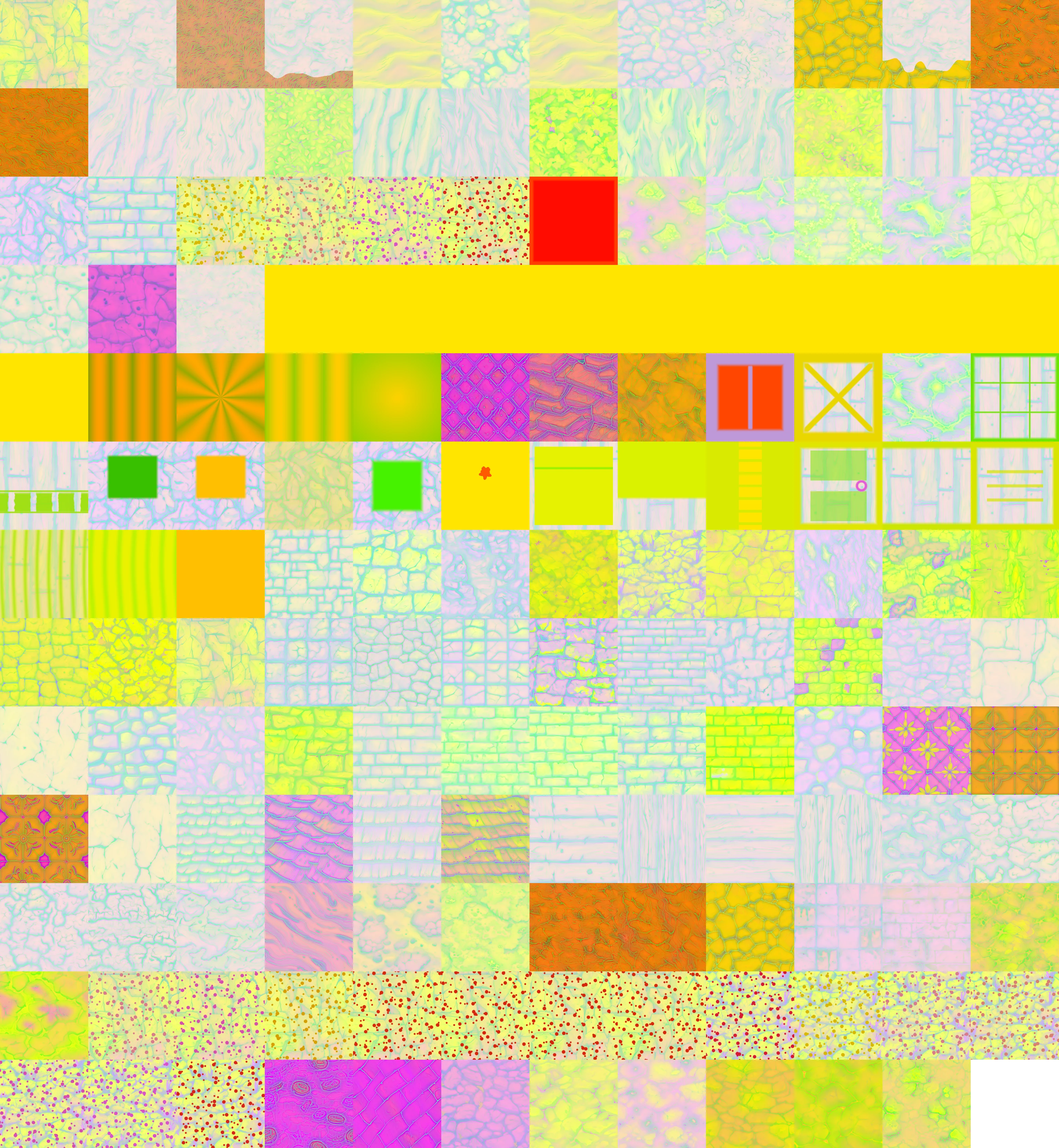
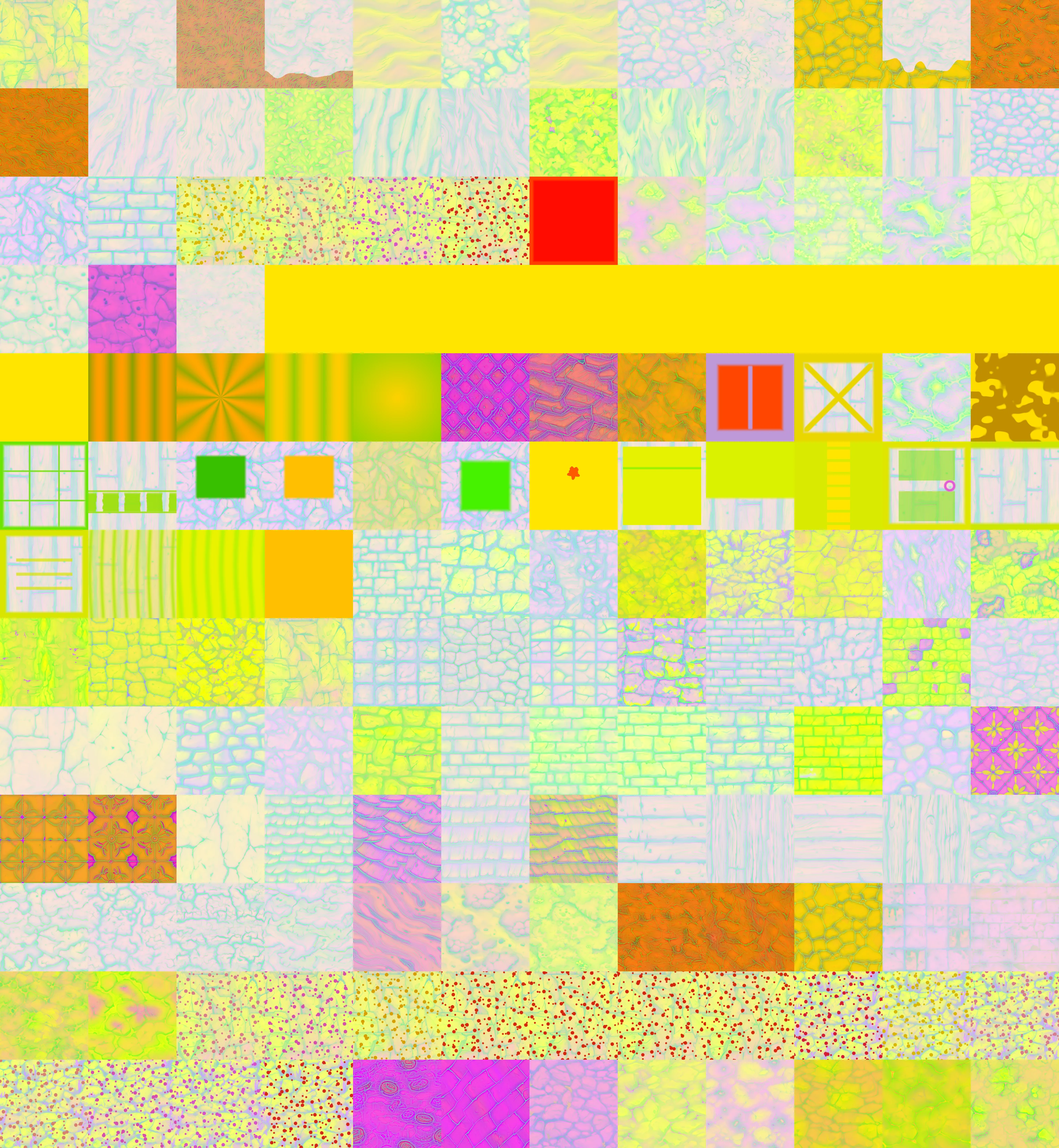
Give the bottom of the planet a reason to be there
The deepest place in the world had nothing in it. Thirty layers of basalt,
obsidian and the odd pocket of lava, and what was waiting was a block you
cannot break and no acknowledgement that you had arrived. Meanwhile the top
tier of tools comes from husks, so depth bought better ore and no destination
-- and with worldgen structures gone there was nothing to find anywhere.

Reaching the core now gives you a hearth: the only one on the planet, not
craftable, and offered once. Placed, it holds off spawning for forty-six units
around it -- enough to make a base genuinely safe rather than mostly safe. It
refuses spawns only; anything already hunting you follows you home, so it is a
quiet place rather than a wall.

Measured with its control, same night, same arena: three husks without the
hearth, none at all with it over thirty seconds. The detection fires next to
the core and not at the surface, and the ward list is rebuilt from the world
every edit so a hearth that is mined out stops warding.

Claude-Session: https://claude.ai/code/session_01Wq591YL54sriTGxyB2SF1D

diff --git a/src/main.js b/src/main.js
@@ -141,6 +141,18 @@ const HAND_LIGHT_GAIN = 2.1;
  */
 const NEW_WORLD_GRACE = 180;
 
+/**
+ * How deep counts as having reached the core, and how far a placed hearth
+ * keeps the dark away.
+ *
+ * The ward is generous on purpose: it is the reward for the longest journey in
+ * the game, and a base that is *actually* safe is worth more than one that is
+ * mostly safe. It only holds off spawning — anything already hunting you will
+ * still follow you home.
+ */
+const CORE_REACH_K = 5;
+const HEARTH_WARD = 46;
+
 /** (di, dj) toward the wall a torch of each facing is bracketed to. */
 const TORCH_WALL_STEP = [[1, 0], [-1, 0], [0, 1], [0, -1]];
 
@@ -207,6 +219,10 @@ class Game {
      * house on the first warm day. Only what winter froze is winter's to melt.
      */
     this.frozen = new Set();
+    /** Placed hearths, keyed like the rest. See _refreshWards. */
+    this.hearths = new Set();
+    /** Has the planet already given up its one hearth? */
+    this.coreFound = false;
     /** Burning cells near the player, refilled by the hand-light scan. */
     this._flameCells = [];
     this.seed = 0;
@@ -503,6 +519,9 @@ class Game {
     this.deathSite = null;
     this.signs.clear();
     this.frozen.clear();
+    this.hearths.clear();
+    this.coreFound = false;
+    this.mobs.wards = null;
     this.seasons.fromJSON(0);
     this._pushSeason();
     this.inventory = new Inventory();
@@ -688,6 +707,9 @@ class Game {
         : null;
       this.signs = new Map(save.signs || []);
       this.frozen = new Set(save.frozen || []);
+      this.hearths = new Set(save.hearths || []);
+      this.coreFound = !!save.coreFound;
+      this._refreshWards();
       this._pendingSave = null;
     } else {
       this._spawnPlayer();
@@ -904,6 +926,8 @@ class Game {
       home: this.homeSpawn ? [this.homeSpawn.col, this.homeSpawn.k] : null,
       signs: [...this.signs],
       frozen: [...this.frozen],
+      hearths: [...this.hearths],
+      coreFound: this.coreFound,
       playtime: this.playtime,
       dayT: +this.dayT.toFixed(5),
       season: this.seasons.toJSON(),
@@ -935,8 +959,11 @@ class Game {
       // (the kiln ⇄ lit-kiln swap) inherits whatever the cell already had.
       const fac = this.planet.applyFacing(e.col, e.k, e.id, e.facing);
       if (fac >= 0) e.facing = fac; else delete e.facing;
+      if (e.id === ID.hearth) this.hearths.add(e.col * D + e.k);
     }
     this.worldWorker.postMessage({ type: 'edit', edits, id: ++this.editSeq });
+    // Cheap, and only does anything at all once a hearth exists.
+    if (this.hearths.size) this._refreshWards();
   }
 
   /**
@@ -1545,6 +1572,7 @@ class Game {
     this._safeTick('freeze', () => this._tickFreeze(dt));
     this._safeTick('vitals', () => this._tickVitals(dt));
     this._safeTick('grace', () => this._tickGrace(dt));
+    this._safeTick('core', () => this._tickCore(dt));
     this._safeTick('mobs', () => this.mobs.update(dt, this.player, this.sky));
     // A merchant that has walked out of range, run out of life or been killed
     // takes its shop with it. Without this the screen stays up over a stock
@@ -1715,6 +1743,61 @@ class Game {
    * season frozen at whatever it was when the world loaded, which is the same
    * bug as counting only waking hours, just with a different cause.
    */
+  /**
+   * The bottom of the planet, the first time you get there.
+   *
+   * Thirty layers down through basalt, obsidian and the odd pocket of lava, and
+   * what was waiting was a block you cannot break and no acknowledgement that
+   * you had arrived. The planet gives you a hearth instead: the only one there
+   * will ever be, and the reason to have dug.
+   */
+  _tickCore(dt) {
+    if (this.coreFound) return;
+    this._coreT = (this._coreT ?? 0) - dt;
+    if (this._coreT > 0) return;
+    this._coreT = 0.4;
+    const c = this.player.cell;
+    if (c.ck > CORE_REACH_K) return;
+    // Actually next to it, not merely deep — the core tops out at layer 2 and
+    // the last few layers of basalt are not the same achievement.
+    const col = cidx(c.f, Math.min(F - 1, Math.floor(c.ci)), Math.min(F - 1, Math.floor(c.cj)));
+    let touching = false;
+    for (let di = -1; di <= 1 && !touching; di++) {
+      for (let dj = -1; dj <= 1 && !touching; dj++) {
+        const cc = stepColumn(col, di, dj);
+        for (let k = Math.max(0, Math.floor(c.ck) - 2); k <= Math.floor(c.ck) + 1; k++) {
+          if (this.planet.at(cc, k) === ID.core) { touching = true; break; }
+        }
+      }
+    }
+    if (!touching) return;
+    this.coreFound = true;
+    this.inventory.add(itemIdOf('hearth'), 1);
+    this.ui.toast('The core is warm to the touch.', itemIdOf('hearth'), 5000);
+    setTimeout(() => this.ui.toast('It gives you a hearth. Nothing that walks at night will come near it.',
+      itemIdOf('hearth'), 6000), 5200);
+    this.audio.ui(880);
+  }
+
+  /**
+   * Where the hearths are, for the spawner to keep away from.
+   *
+   * The set is maintained by edits, and every entry is checked against the
+   * world before it is used — a cell can stop being a hearth by being mined,
+   * burned or built over, and a ward that outlives its hearth would switch the
+   * night off around an empty patch of ground for the rest of the game.
+   */
+  _refreshWards() {
+    const out = [];
+    for (const key of [...this.hearths]) {
+      const k = key % D, col = (key - k) / D;
+      if (this.planet.at(col, k) !== ID.hearth) { this.hearths.delete(key); continue; }
+      out.push(this.planet.centerOf(col, k, new THREE.Vector3()));
+    }
+    this.mobs.wards = out;
+    this.mobs.wardRadius = HEARTH_WARD;
+  }
+
   _tickGrace(dt) {
     if (!(this.graceT > 0)) return;
     this.graceT -= dt;

diff --git a/src/game/Mobs.js b/src/game/Mobs.js
@@ -78,6 +78,7 @@ const PATH_MAX_DROP = 3;
 /** How many waypoints ahead a mob steers. See _pathBearing. */
 const PATH_LOOKAHEAD = 3;
 const _pp = { f: 0, i: 0, j: 0 };
+const _wp = { f: 0, i: 0, j: 0 };
 
 /**
  * A binary min-heap keyed on score.
@@ -582,6 +583,8 @@ export class Mobs {
       if (p.solidAt(col, k + 1) || p.solidAt(col, k + 2)) continue;
       // a sandy seabed passes every test above, so reject anything submerged
       if (p.liquidAt(col, k + 1) || p.liquidAt(col, k + 2)) continue;
+      // A hearth keeps the surface around it clear too, not just the caves.
+      if (this._warded(col, k)) continue;
       if (playerPos) {
         // don't materialise inside the player's view, and don't drop one just
         // outside the despawn ring where it would be culled again next second
@@ -798,6 +801,7 @@ export class Mobs {
       // Light keeps them out. This is checked last because it is the most
       // expensive test and the cheap ones reject most candidates first.
       if (this._litNear(col, k + 1)) continue;
+      if (this._warded(col, k)) continue;
       return { col, k };
     }
     return null;
@@ -857,6 +861,26 @@ export class Mobs {
    * as no torch at all. This runs only on candidates that have already passed
    * every cheaper test, so the full scan costs nothing worth saving.
    */
+  /**
+   * Is this spot inside the light of a hearth?
+   *
+   * Only *spawning* is refused. A husk already following you walks right into
+   * the ward and swings — a safe base means one that nothing appears inside,
+   * not one with an invisible wall around it.
+   */
+  _warded(col, k) {
+    const wards = this.wards;
+    if (!wards || !wards.length) return false;
+    const { f, i, j } = colParts(col, _wp);
+    cellToWorld(f, i + 0.5, j + 0.5, k + 1, _p);
+    const r = this.wardRadius || 0;
+    for (let n = 0; n < wards.length; n++) {
+      const w = wards[n];
+      if (Math.hypot(_p[0] - w.x, _p[1] - w.y, _p[2] - w.z) < r) return true;
+    }
+    return false;
+  }
+
   _litNear(col, k) {
     const p = this.planet;
     for (let dk = -LIGHT_GUARD_K; dk <= LIGHT_GUARD_K; dk++) {

diff --git a/src/world/Blocks.js b/src/world/Blocks.js
@@ -96,7 +96,7 @@ export const TILES = [
   'flower_red', 'flower_blue', 'flower_gold', 'tall_grass', 'mushroom', 'sapling',
   'wheat_0', 'wheat_1', 'wheat_2', 'wheat_3',
   'pumpkin_side', 'pumpkin_top', 'cactus_side', 'cactus_top',
-  'iron_block', 'gold_block', 'crystal_block', 'lantern', 'crate', 'core',
+  'iron_block', 'gold_block', 'crystal_block', 'lantern', 'crate', 'core', 'hearth',
   'bench_top', 'bench_side', 'kiln_front', 'kiln_front_lit', 'kiln_side', 'kiln_top', 'torch',
   'bed_top', 'bed_side', 'ladder', 'door', 'door_top', 'sign', 'fence',
   'torch_stick', 'torch_flame',
@@ -236,6 +236,17 @@ export const BLOCKS = [
   // since is gated; these are the stragglers.
   block({ name: 'obsidian', label: 'Obsidian', all: 'obsidian', hardness: 6, tool: 'pick', tier: 3, particle: [0.12, 0.1, 0.18], sound: 'stone' }),
   block({ name: 'core', label: 'Planet Core', all: 'core', hardness: 24, tool: 'pick', tier: 4, drop: null, light: 8, lightColor: [1.0, 0.55, 0.25], particle: [1, 0.6, 0.2], sound: 'stone' }),
+  // What the planet gives you for coming all the way down.
+  //
+  // Thirty layers of basalt and lava used to end at a wall you cannot break and
+  // that says nothing — the deepest place on the planet was the only one with
+  // nothing in it. This is the one of these that exists, it cannot be crafted,
+  // and the planet only offers it once.
+  block({
+    name: 'hearth', label: 'Planet Hearth', all: 'hearth',
+    hardness: 1.4, tool: 'pick', light: 15, lightColor: [1.0, 0.72, 0.36],
+    particle: [1, 0.7, 0.3], sound: 'stone',
+  }),
 
   block({ name: 'farmland', label: 'Farmland', top: 'farmland', side: 'dirt', bottom: 'dirt', hardness: 0.6, tool: 'shovel', drop: 'dirt', particle: [0.32, 0.23, 0.16], sound: 'soil' }),
   block({ name: 'farmland_wet', label: 'Watered Farmland', top: 'farmland_wet', side: 'dirt', bottom: 'dirt', hardness: 0.6, tool: 'shovel', drop: 'dirt', particle: [0.22, 0.16, 0.12], sound: 'soil' }),

diff --git a/src/render/TextureGen.js b/src/render/TextureGen.js
@@ -203,6 +203,38 @@ G.door_top = (s) => {
   return s;
 };
 
+G.hearth = (s) => {
+  // Cooling crust with the fire still in the cracks. The pattern is a couple of
+  // octaves of value noise thresholded into plates, so the glow reads as gaps
+  // between them rather than as spots painted on.
+  const n2 = (x, y) => {
+    const v = Math.sin(x * 12.9898 + y * 78.233) * 43758.5453;
+    return v - Math.floor(v);
+  };
+  const smooth2 = (x, y) => {
+    const xi = Math.floor(x), yi = Math.floor(y);
+    const xf = x - xi, yf = y - yi;
+    const u = xf * xf * (3 - 2 * xf), v = yf * yf * (3 - 2 * yf);
+    return lerp(lerp(n2(xi, yi), n2(xi + 1, yi), u),
+                lerp(n2(xi, yi + 1), n2(xi + 1, yi + 1), u), v);
+  };
+  s.each((i, x, y, u, v) => {
+    const f = smooth2(u * 5.5, v * 5.5) * 0.65 + smooth2(u * 13.0, v * 13.0) * 0.35;
+    // Near the threshold is a crack; well above it is solid plate.
+    const crack = smoothstep(0.52, 0.40, Math.abs(f - 0.5) * 2.2);
+    const heat = Math.pow(crack, 1.4);
+    const r = 34 + heat * 226, g = 22 + heat * 132, b = 20 + heat * 44;
+    setRGB(s, i, px([r, g, b]));
+    s.a[i] = 1;
+    // The crust stands proud, the fire sits down in the gaps.
+    s.h[i] = 0.9 - heat * 0.75;
+    s.ao[i] = 1 - heat * 0.25;
+    s.rough[i] = 0.86 - heat * 0.3;
+  });
+  s.normalStrength = 2.0;
+  return s;
+};
+
 G.torch_stick = (s) => {
   // Charred, resinous wood, uniform across the tile.
   //

diff --git a/index.html b/index.html
@@ -204,6 +204,9 @@
         Build a <strong>bed</strong> early and use it: you wake up there when you die, and on a planet this
         size that is the difference between losing a night and losing your house. It does not skip the
         night — the planet keeps your own clock, so its evening is your evening.<br />
+        The planet has a <strong>core</strong>, about thirty layers down through basalt and lava. Reach it
+        and it gives you a <strong>hearth</strong> — the only one there will ever be. Set it down and
+        nothing will spawn for a long way around it, which is what turns a camp into a home.<br />
         The planet keeps your clock, so a new world can begin at any hour. If yours begins after dark
         you get <strong>a few torches and three quiet minutes</strong> to find your feet — after that
         the night is yours to deal with.<br />
